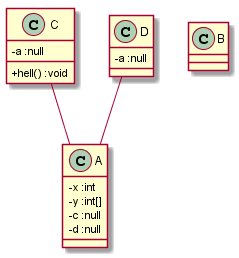
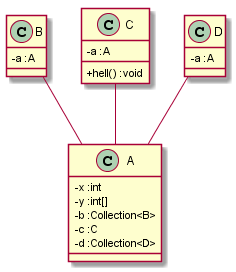
For #10 -- Parsing association relationship

diff --git a/src/com/parser/JavaParserUML.java b/src/com/parser/JavaParserUML.java
@@ -13,6 +13,7 @@ import com.parser.beans.AttributeStructure;
 import com.parser.beans.ClassStructure;
 import com.parser.beans.MethodStructure;
 import com.parser.beans.RelationBean;
+import com.sun.org.apache.bcel.internal.generic.RET;
 
 import japa.parser.JavaParser;
 import japa.parser.ParseException;
@@ -70,16 +71,15 @@ public class JavaParserUML {
 				List<BodyDeclaration> classMembers = type.getMembers();
 				List<AttributeStructure> attributeStructure = new ArrayList<AttributeStructure>();
 				List<MethodStructure> methodStructure = new ArrayList<MethodStructure>();
-				
-				
+
 				for (BodyDeclaration classAttribute : classMembers) {
-				//	System.out.println(classAttribute);
-					//Get the class attributes
+					// System.out.println(classAttribute);
+					// Get the class attributes
 					if (classAttribute instanceof FieldDeclaration) {
-						AttributeStructure parsedAttrs = getClassAttributres(classAttribute , parsedStructure);
+						AttributeStructure parsedAttrs = getClassAttributres(classAttribute, parsedStructure);
 						attributeStructure.add(parsedAttrs);
 					}
-					//Get the class methods
+					// Get the class methods
 					if (classAttribute instanceof MethodDeclaration) {
 						MethodStructure methodStruct = getClassMethods(classAttribute);
 						methodStructure.add(methodStruct);
@@ -96,13 +96,14 @@ public class JavaParserUML {
 
 	}
 
-	public static AttributeStructure getClassAttributres(BodyDeclaration classAttribute, ClassStructure sourceClassName) {
+	public static AttributeStructure getClassAttributres(BodyDeclaration classAttribute,
+			ClassStructure sourceClassName) {
 
 		AttributeStructure attrs = new AttributeStructure();
 		List<RelationBean> parsedRelations = new ArrayList<RelationBean>();
-		
+
 		FieldDeclaration field = (FieldDeclaration) classAttribute;
-	//	System.out.println(field.getModifiers());
+		// System.out.println(field.getModifiers());
 		// attrs.setAttributeaccessModifier(field.getModifiers());
 		if (field.getModifiers() == ModifierSet.PUBLIC) {
 			attrs.setAttributeaccessModifier("public");
@@ -112,22 +113,19 @@ public class JavaParserUML {
 		String attrType = field.getType().toString();
 		if (attrType.equals("int") || attrType.equals("String") || attrType.equals("int[]")) {
 			attrs.setAttributeType(field.getType().toString());
-        }
-		else{
-			
-			//System.err.println(sourceClassName.toString());
-			RelationBean rel = new RelationBean();
-			rel.setSourceClass(sourceClassName.getClassName());
-			rel.setAssociatedClass(field.getType().toString());
-			parsedRelations.add(rel);
-			//System.err.println(field.getType().toString());
-			
+		} else {
+
+			// System.err.println(sourceClassName.toString());
+
+			RelationBean parsedRel = generateRelationships(field.getType().toString(), sourceClassName.getClassName());
+			attrs.setAttributeType(field.getType().toString());
+			parsedRelations.add(parsedRel);
+			// System.err.println(field.getType().toString());
+
 		}
 		attrs.setRelationBean(parsedRelations);
 		attrs.setAttributeName(field.getVariables().get(0).getId().getName());
-		
-			
-		
+
 		return attrs;
 
 	}
@@ -148,13 +146,27 @@ public class JavaParserUML {
 
 	}
 
+	public static RelationBean generateRelationships(String relType, String sourceClassName) {
+		RelationBean rel = new RelationBean();
+		if (relType.contains("Collection<")) {
+			String asso = Character.toString(relType.charAt(11));
+			System.out.println(asso);
+			rel.setAssociatedClass(asso);
+		} else {
+			rel.setAssociatedClass(relType);
+		}
+		rel.setSourceClass(sourceClassName);
+		rel.setRelationType("ASSOCIATION");
+		return rel;
+	}
+
 	public static void generateUml(List<ClassStructure> parsedList) throws IOException {
 		StringBuilder printLine = new StringBuilder();
 		printLine.append("@startuml\n");
 		printLine.append("skinparam classAttributeIconSize 0\n");
 		for (ClassStructure classValues : parsedList) {
 			String className = classValues.getClassName();
-		//	System.out.println(className);
+			// System.out.println(className);
 			printLine.append("class " + className + " {\n");
 			if (classValues.getAttributes() != null) {
 				List<AttributeStructure> attrList = classValues.getAttributes();
@@ -164,7 +176,7 @@ public class JavaParserUML {
 					} else if (attr.getAttributeaccessModifier() == "public") {
 						printLine.append("+" + attr.getAttributeName() + " :" + attr.getAttributeType() + "\n");
 					}
-					
+
 				}
 			}
 			if (classValues.getMethods() != null) {
@@ -180,13 +192,17 @@ public class JavaParserUML {
 				}
 			}
 			printLine.append("}\n");
-			if(classValues.getAttributes() != null && classValues.getAttributes().get(0).getRelationBean() != null){
-				List <RelationBean> rels =   classValues.getAttributes().get(0).getRelationBean();
-				for (RelationBean rb : rels){
-					String parsedAssociation = classValues.getAttributes().get(0).createAssociation(rb.getSourceClass(), rb.getAssociatedClass());
-					printLine.append(parsedAssociation+"\n");
+			if (classValues.getAttributes() != null && classValues.getAttributes().get(0).getRelationBean() != null) {
+				List<RelationBean> rels = classValues.getAttributes().get(0).getRelationBean();
+				for (RelationBean rb : rels) {
+					if (rb.getRelationType().equalsIgnoreCase("ASSOCIATION")) {
+						String parsedAssociation = classValues.getAttributes().get(0)
+								.createAssociation(rb.getSourceClass(), rb.getAssociatedClass());
+						printLine.append(parsedAssociation + "\n");
+					}
+
 				}
-				
+
 			}
 			// }
 		}

diff --git a/src/testClasses/A.java b/src/testClasses/A.java
@@ -8,7 +8,7 @@ public class A {
 	 
 	private int[] y;
 	 
-//	private Collection<B> b;
+	private Collection<B> b;
 	 
 	private C c;
 	 

diff --git a/src/testClasses/B.java b/src/testClasses/B.java
@@ -2,6 +2,6 @@ package testClasses;
 
 public class B {
 	 
-	//private A a;
+	private A a;
 	 
 }

diff --git a/src/com/parser/beans/RelationBean.java b/src/com/parser/beans/RelationBean.java
@@ -30,4 +30,5 @@ public class RelationBean {
 		this.relationType = relationType;
 	}
 
+	
 }
